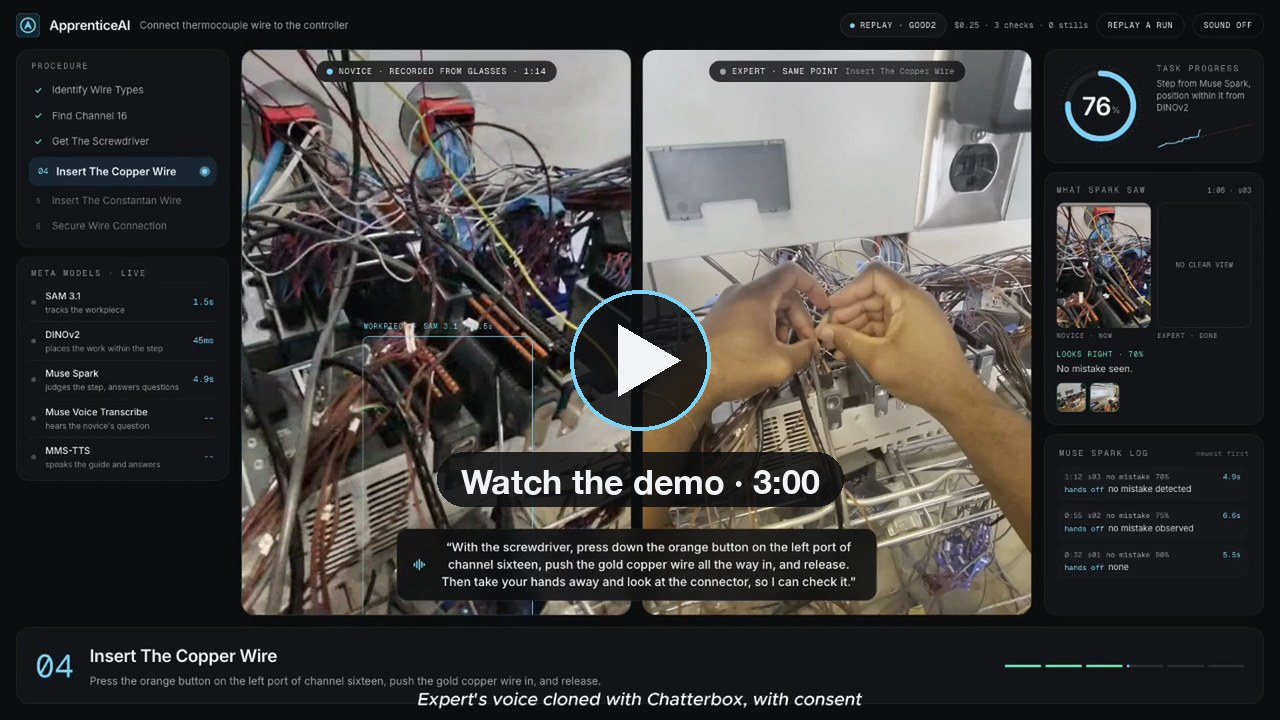
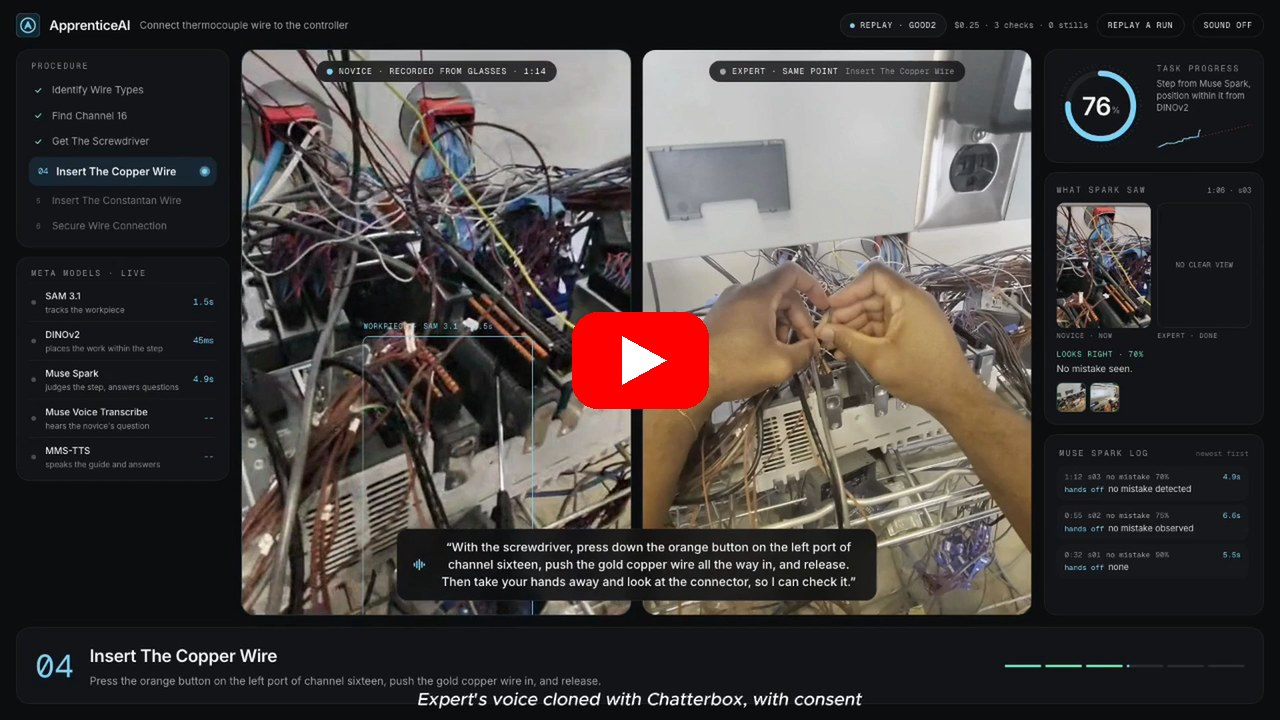
docs(readme): YouTube-style play button on the demo thumbnail, drop the text link

Changed region(s): [[0.3438, 0.3972, 0.6562, 0.7028]]

diff --git a/README.md b/README.md
@@ -4,8 +4,6 @@
 
 **Quick links:** [Results](#results-live-on-the-glasses-nov-4) · [How it works](#how-it-works) · [What the model decides, what stays in code](#what-the-model-decides-what-stays-in-code) · [Limits](#results-live-on-the-glasses-nov-4) · [Run it](#run-it)
 
-**[▶ Watch the 3-minute demo](https://youtu.be/wqdUkSTJxkM)**
-
 [![ApprenticeAI demo video: play on YouTube](docs/img/video_thumb.jpg)](https://youtu.be/wqdUkSTJxkM)
 
 **An expert does a job once on Ray-Ban Meta glasses. Anyone can then do it with that expert in their ear.**
